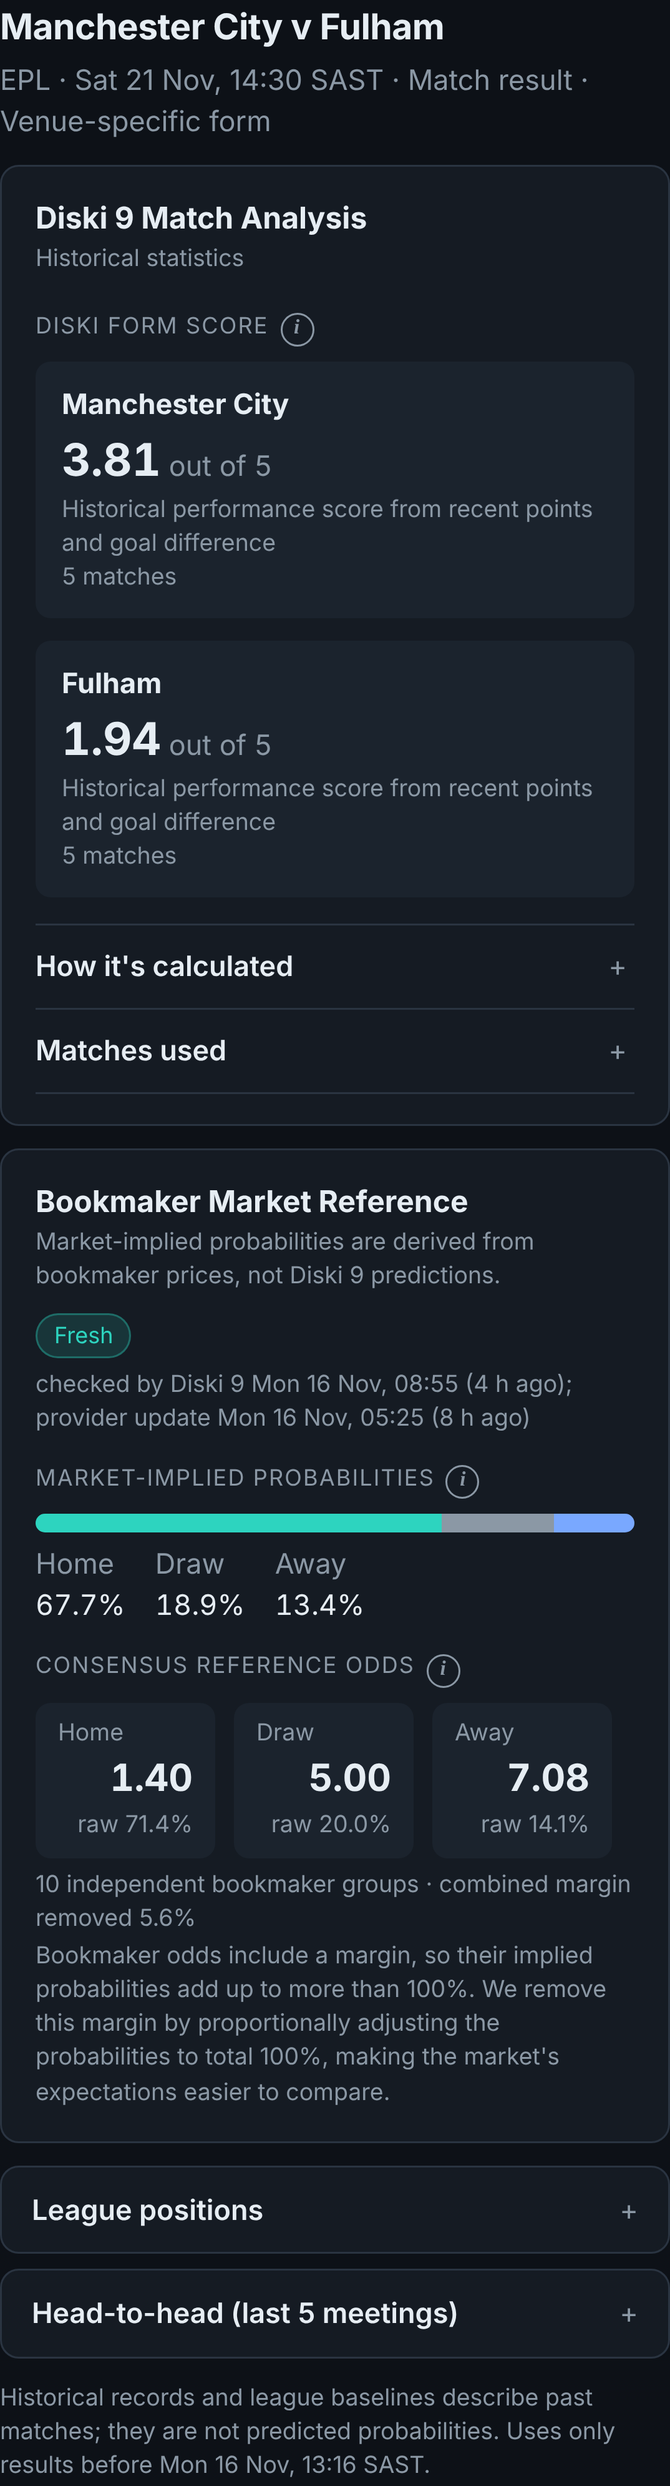
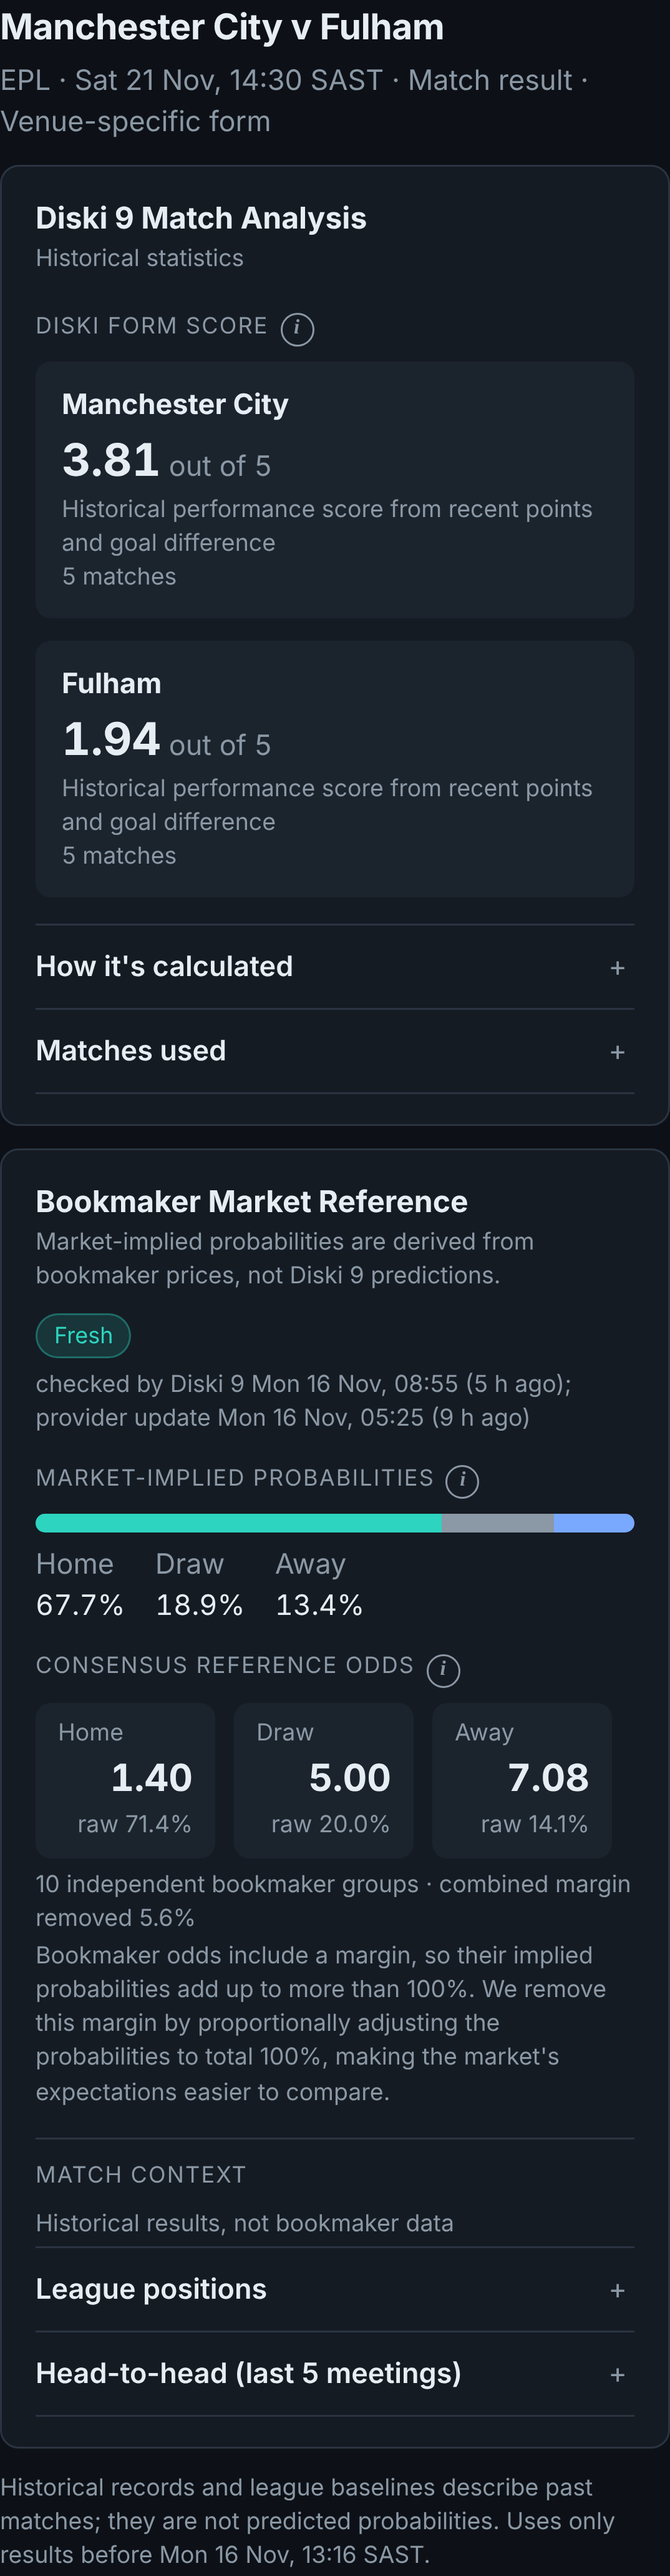
Fixture detail: league positions and head-to-head inside the bookmaker card
- Collapsed "League positions" and "Head-to-head" rows at the foot of the
  Bookmaker Market Reference card, under a "Match context" label marking
  them as historical (not bookmaker) data; same style as the analysis rows
- Shown for fresh, stale, unavailable and no-odds leagues; standalone cards
  removed
- UI only: no calculation, engine, cache or schema change

Claude-Session: https://claude.ai/code/session_01G8XHfLBAfQK8Kx4cyd1XFy

diff --git a/src/diski9/app/assets/style.css b/src/diski9/app/assets/style.css
@@ -299,3 +299,9 @@ details.more details.more { background: var(--surface-2); margin-top: 8px; }
 .price-cell .raw { margin-top: 2px; }
 .market-facts { margin: 4px 0 2px; }
 .margin-note { margin: 2px 0 0; max-width: 70ch; }
+
+/* League positions and head-to-head at the foot of the bookmaker card */
+.market .context-group { margin-top: 14px; }
+.market .context-group .acc { margin-top: 0; }
+.context-head { padding: 10px 0 2px; border-top: 1px solid var(--border); gap: 10px; }
+.context-group .acc-body table { margin-top: 2px; }

diff --git a/tests/test_detail_layout.py b/tests/test_detail_layout.py
@@ -47,9 +47,19 @@ def test_two_titled_cards_in_every_market(data, market):
     accs = _find(analysis, lambda c: isinstance(c, html.Details) and c.className == "acc")
     assert [_text(a.children[0]) for a in accs] == ["How it's calculated", "Matches used"]
     assert all(a.open is False for a in accs)
-    # no separate outer cards for them any more
-    outer = [_text(c.children[0]) for c in d.children[3].children]
-    assert [o.split(" (")[0] for o in outer] == ["League positions", "Head-to-head"]
+    # league positions and head-to-head sit at the foot of the bookmaker card,
+    # under a "Match context" label, collapsed; no standalone cards remain
+    ctx = _find(market_card, lambda c: getattr(c, "className", "") == "acc-group context-group")
+    assert len(ctx) == 1 and market_card.children[-1] is ctx[0]
+    assert _text(ctx[0]).startswith("Match context Historical results, not bookmaker data")
+    rows = _find(ctx[0], lambda c: isinstance(c, html.Details) and c.className == "acc")
+    assert [_text(a.children[0]).split(" (")[0] for a in rows] == [
+        "League positions",
+        "Head-to-head",
+    ]
+    assert all(a.open is False for a in rows)
+    assert len(d.children) == 4  # heading, analysis card, bookmaker card, footnote
+    assert not _find(d, lambda c: getattr(c, "className", "") == "sections")
     assert "Other markets" not in _text(d)
 
 
@@ -112,13 +122,39 @@ def test_form_tiles_without_badges_and_results_in_matches_used(data):
     assert "BTTS in" in _text(analysis) and "out of 5" not in _text(analysis)
 
 
+def test_context_rows_present_for_fresh_stale_and_unavailable_odds(populated):
+    from datetime import timedelta
+
+    from diski9.app import ScreenerData
+
+    from .test_app import T0
+
+    cases = [
+        (T0, EPL_FIX, "fresh"),
+        (T0 + timedelta(days=2), EPL_FIX, "stale"),
+        (T0, PSL_FIX, None),  # league without bookmaker odds
+    ]
+    for clock, fid, status in cases:
+        d = ScreenerData(populated, ttl_seconds=0, clock=lambda c=clock: c)
+        r, ov, official = d.detail(fid, "venue")
+        for market in MARKETS:
+            _, card = cards(render_detail(r, ov, official, market, d))
+            if status:
+                assert status in card.className
+            rows = _find(card, lambda c: isinstance(c, html.Details) and c.className == "acc")
+            titles = [_text(a.children[0]).split(" (")[0] for a in rows]
+            assert titles == ["League positions", "Head-to-head"], (fid, market, titles)
+            assert "No previous meetings in the stored leagues." in _text(card)
+
+
 def test_psl_market_card_is_small_and_honest(data):
     r, ov, official = data.detail(PSL_FIX, "venue")
     for market in MARKETS:
         _, card = cards(render_detail(r, ov, official, market, data))
         assert "compact" in card.className
         assert "No bookmaker odds are available for the PSL" in _text(card)
-        assert "%" not in _text(card) and "bookmaker group" not in _text(card)
+        odds_part = _text(card.children[:-1])  # everything above the context rows
+        assert "%" not in odds_part and "bookmaker group" not in odds_part
 
 
 BROWSER = """
@@ -147,6 +183,13 @@ const state = (p) => p.evaluate(() =>
     await acc.nth(1).click(); r.bothOpen = await state(p);
     await acc.nth(0).click(); r.secondOnly = await state(p);
     r.summaryHeight = await acc.first().evaluate(e => e.getBoundingClientRect().height);
+    const rowsCtx = p.locator('.market .context-group details.acc');
+    r.ctxClosed = await rowsCtx.evaluateAll(ds => ds.map(d => d.open));
+    await rowsCtx.nth(0).locator('summary').click();
+    await rowsCtx.nth(1).locator('summary').focus();
+    await p.keyboard.press('Enter');  // keyboard opens the second row
+    r.ctxOpen = await rowsCtx.evaluateAll(ds => ds.map(d => d.open));
+    r.cardsBelow = await p.evaluate(() => document.querySelectorAll('.detail .sections').length);
     r.overflow = await p.evaluate(() => document.documentElement.scrollWidth - window.innerWidth);
     out[name] = r;
     await ctx.close();
@@ -181,5 +224,7 @@ def test_browser_cards_accordions_and_mobile(data):
             assert r["secondOnly"] == [False, True]
             assert r["summaryHeight"] >= 44  # comfortable touch target
             assert r["overflow"] <= 0
+            assert r["ctxClosed"] == [False, False] and r["ctxOpen"] == [True, True]
+            assert r["cardsBelow"] == 0
     finally:
         server.shutdown()

diff --git a/src/diski9/app/views.py b/src/diski9/app/views.py
@@ -8,7 +8,8 @@ Layout (final UI refinement, after Milestone 5.3):
   Card 2   Bookmaker Market Reference - the selected market only: status,
            timestamps, market-implied probabilities, consensus odds (raw implied),
            bookmaker groups, margin removed and a short margin note
-  Then     collapsed sections: league positions, head-to-head
+           At its foot, under "Match context" (historical, not bookmaker data):
+           collapsed League positions and Head-to-head rows
 """
 
 from __future__ import annotations
@@ -99,14 +100,6 @@ def info(content: Any, label: str = "More information", extra_class: str = "") -
 
 def pill(text: str, kind: str = "") -> html.Span:
     return html.Span(text, className=f"pill {kind}".strip())
-
-
-def section(title: str, *children: Any, open_: bool = False) -> html.Details:
-    return html.Details(
-        [html.Summary(title), html.Div(children, className="section-body")],
-        className="more",
-        open=open_,
-    )
 
 
 def sequence(seq: str) -> html.Span:
@@ -364,7 +357,40 @@ MARGIN_NOTE = (
 )
 
 
+def context_group(*sections: Any) -> html.Div:
+    """League positions and head-to-head: historical context shown at the foot of the
+    bookmaker card for a compact layout, labelled so it is never read as market data."""
+    return html.Div(
+        [
+            html.Div(
+                [
+                    html.Span("Match context", className="label"),
+                    html.Span("Historical results, not bookmaker data", className="muted small"),
+                ],
+                className="label-row context-head",
+            ),
+            *sections,
+        ],
+        className="acc-group context-group",
+    )
+
+
 def market_card(
+    ov: OddsView | None,
+    market: Market,
+    data: ScreenerData,
+    league: str,
+    context: list | None = None,
+) -> html.Section:
+    """Bookmaker card with the historical context rows appended at the bottom (always,
+    whatever the odds status)."""
+    card = _market_card(ov, market, data, league)
+    if context:
+        card.children.append(context_group(*context))
+    return card
+
+
+def _market_card(
     ov: OddsView | None, market: Market, data: ScreenerData, league: str
 ) -> html.Section:
     """The selected market only: status, times, market-implied probabilities, consensus
@@ -859,7 +885,7 @@ def positions_section(r: dict, official: dict) -> html.Details:
             ]
         )
     )
-    return section(
+    return accordion(
         "League positions",
         html.P(label, className="muted small"),
         html.Table([head, html.Tbody(body)], className="grid compact"),
@@ -872,8 +898,9 @@ def positions_section(r: dict, official: dict) -> html.Details:
 def h2h_section(r: dict) -> html.Details:
     h = r["head_to_head"]
     if not h:
-        return section(
-            "Head-to-head", html.P("No previous meetings in the stored leagues.", className="muted")
+        return accordion(
+            "Head-to-head",
+            html.P("No previous meetings in the stored leagues.", className="muted small"),
         )
     rows = [
         html.Tr(
@@ -893,7 +920,7 @@ def h2h_section(r: dict) -> html.Details:
         )
         for m in h
     ]
-    return section(
+    return accordion(
         "Head-to-head (last 5 meetings)",
         html.Div(html.Table(html.Tbody(rows), className="grid compact"), className="scroll-x"),
         html.P(
@@ -925,10 +952,12 @@ def render_detail(
                 className="detail-header",
             ),
             analysis_card(r, market),
-            market_card(ov, MARKET_OF[market], data, league),
-            html.Div(
-                [positions_section(r, official), h2h_section(r)],
-                className="sections",
+            market_card(
+                ov,
+                MARKET_OF[market],
+                data,
+                league,
+                context=[positions_section(r, official), h2h_section(r)],
             ),
             html.P(
                 f"{r['indicator_note']} Uses only results before {data.local(r['cutoff'])} {data.tz_label}.",

diff --git a/tests/test_app.py b/tests/test_app.py
@@ -666,7 +666,12 @@ def test_market_card_selected_market_only_with_sources_and_margin(data):
         assert f"combined margin removed {margin}" in text
         assert "proportionally adjusting the probabilities to total 100%" in text
         assert "raw " in text  # raw implied kept distinct from market-implied
-        assert not _find(card, lambda c: isinstance(c, h.Details) and c.className == "acc")
+        # the only expanders are the historical context rows (no odds-details accordion)
+        accs = _find(card, lambda c: isinstance(c, h.Details) and c.className == "acc")
+        assert [_text(a.children[0]).split(" (")[0] for a in accs] == [
+            "League positions",
+            "Head-to-head",
+        ]
         assert "Odds details" not in text and "other markets" not in text.lower()
 
 

diff --git a/docs/ui_cleanup_and_baseline.md b/docs/ui_cleanup_and_baseline.md
@@ -41,6 +41,18 @@ API requests.*
      fixture are included. A baseline is shown once at least 30 eligible
      matches are available."*
 
+## Follow-up: match context inside the bookmaker card
+
+League positions and Head-to-head now sit at the foot of the Bookmaker Market
+Reference card:
+* They come under a divider labelled "Match context — Historical results, not
+  bookmaker data".
+* They are collapsed rows, with the same style as "How it's calculated".
+* They appear in every odds state (Fresh, Stale, Unavailable, and leagues with
+  no odds).
+* There are no standalone cards below the bookmaker card any more.
+* Their content is unchanged. This is UI only, with the engine still 2.2.0.
+
 ## League baseline: new calculation (`engine.league_baseline`)
 
 For a fixture in competition *c*, season *s*, with cutoff *t* (kickoff, or
